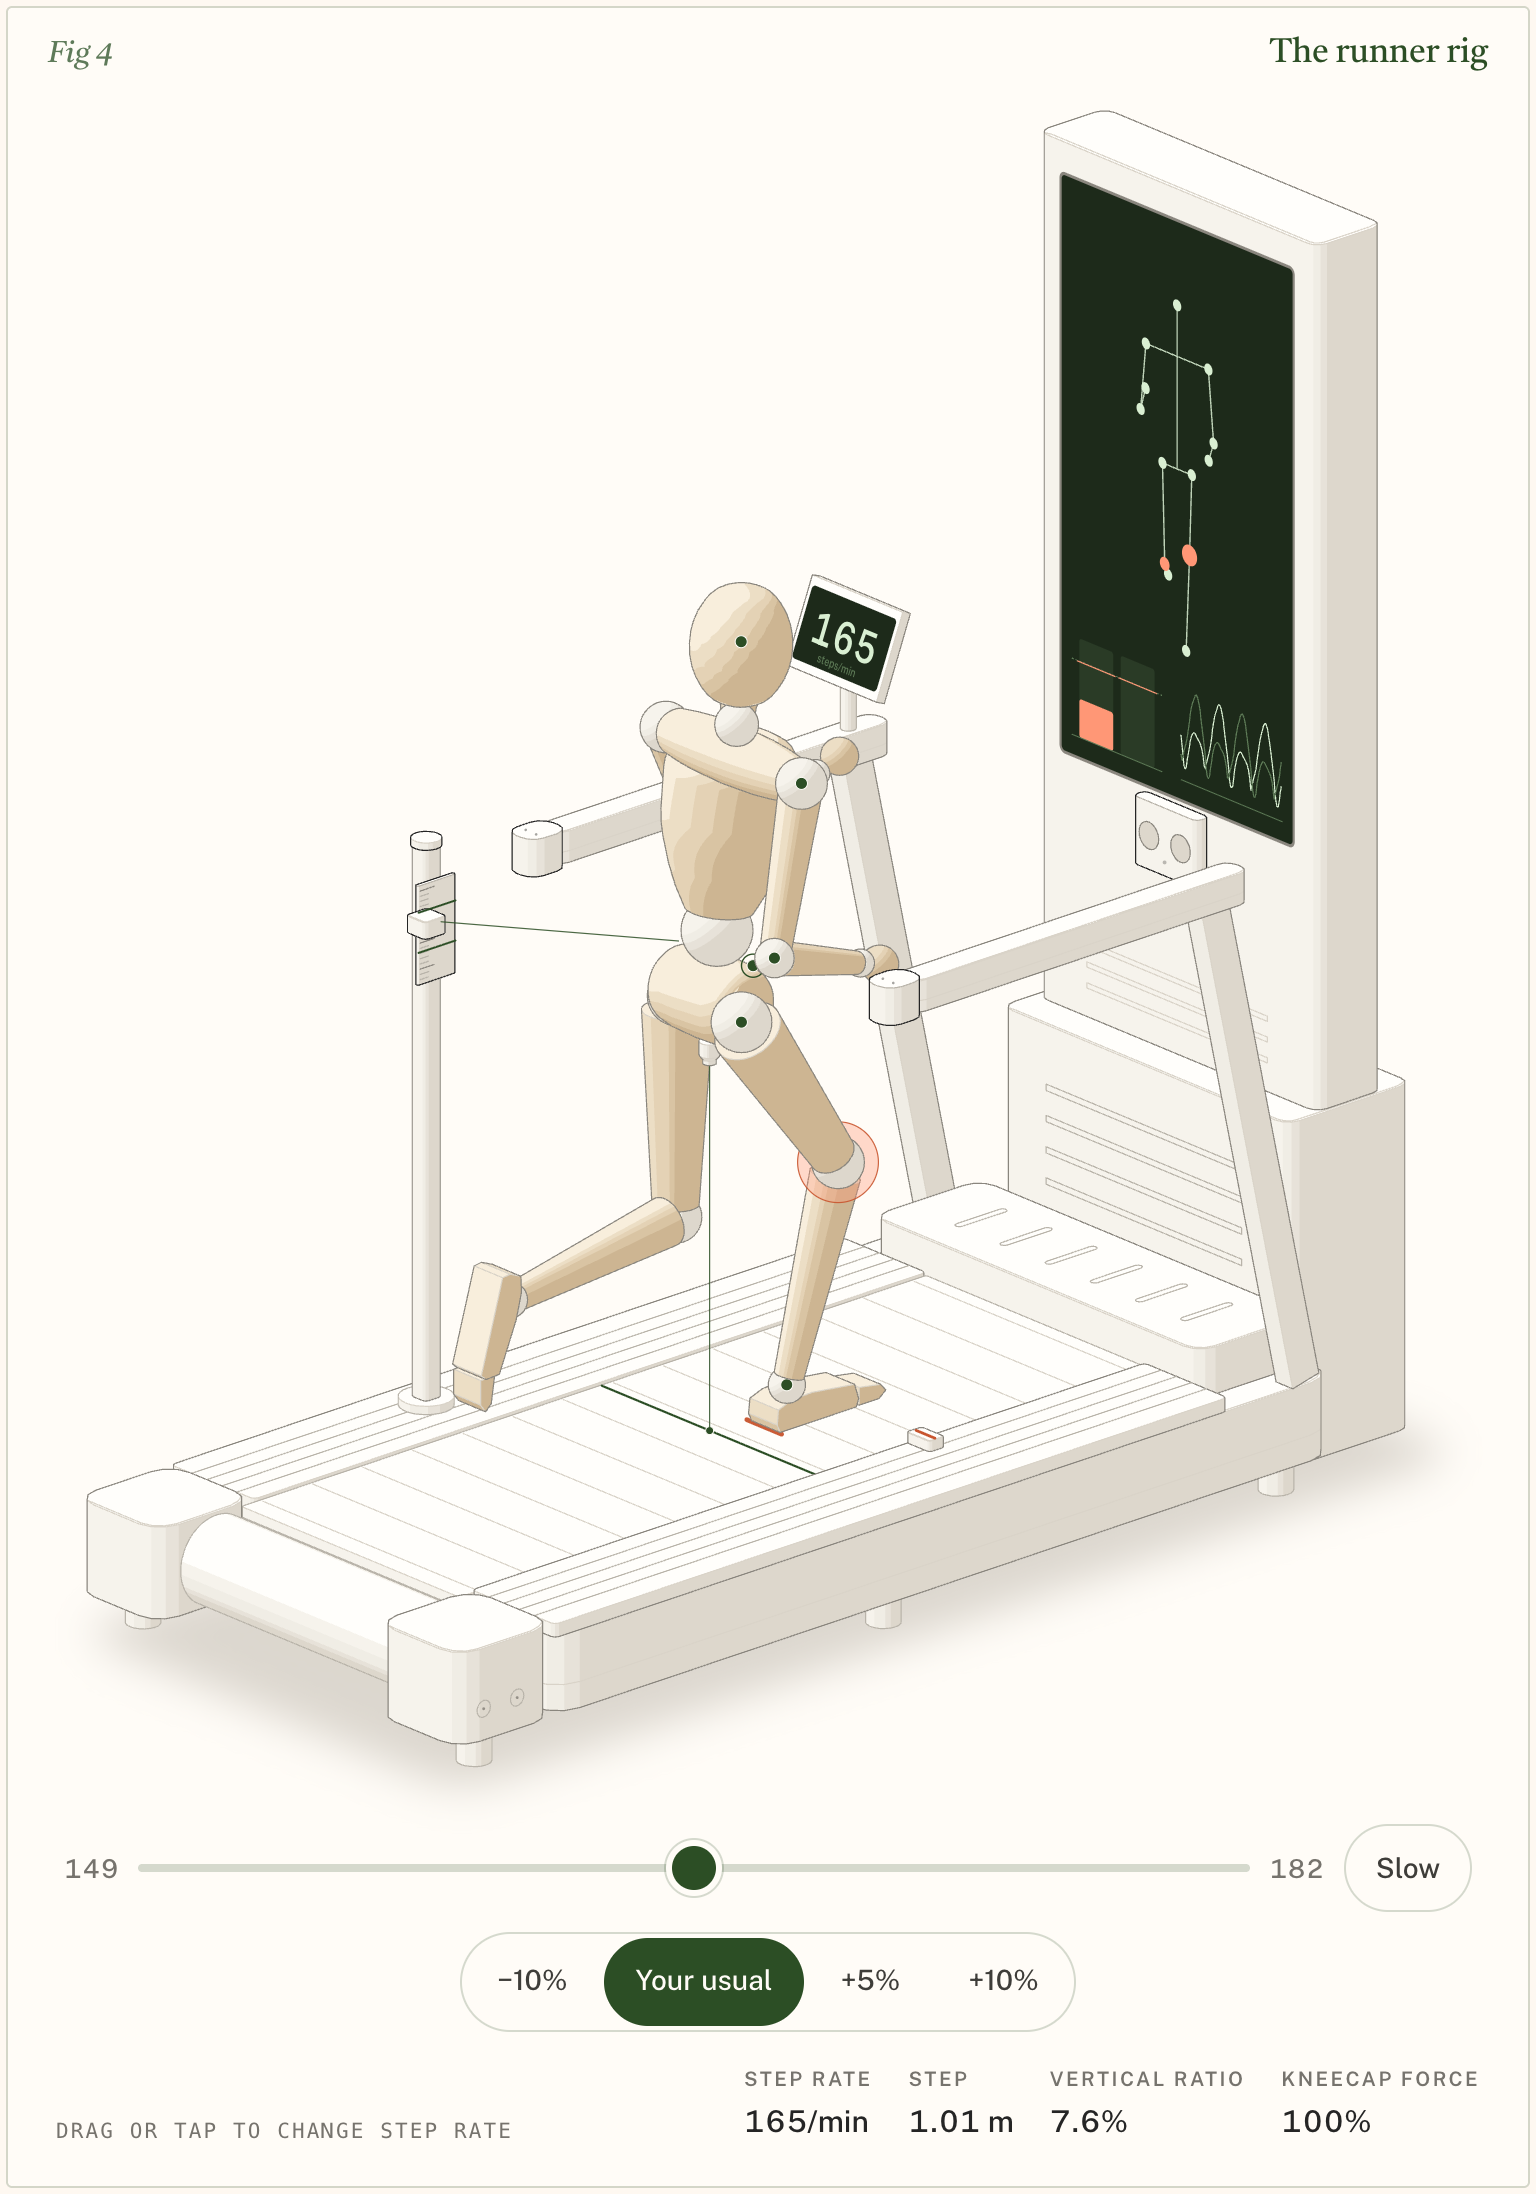
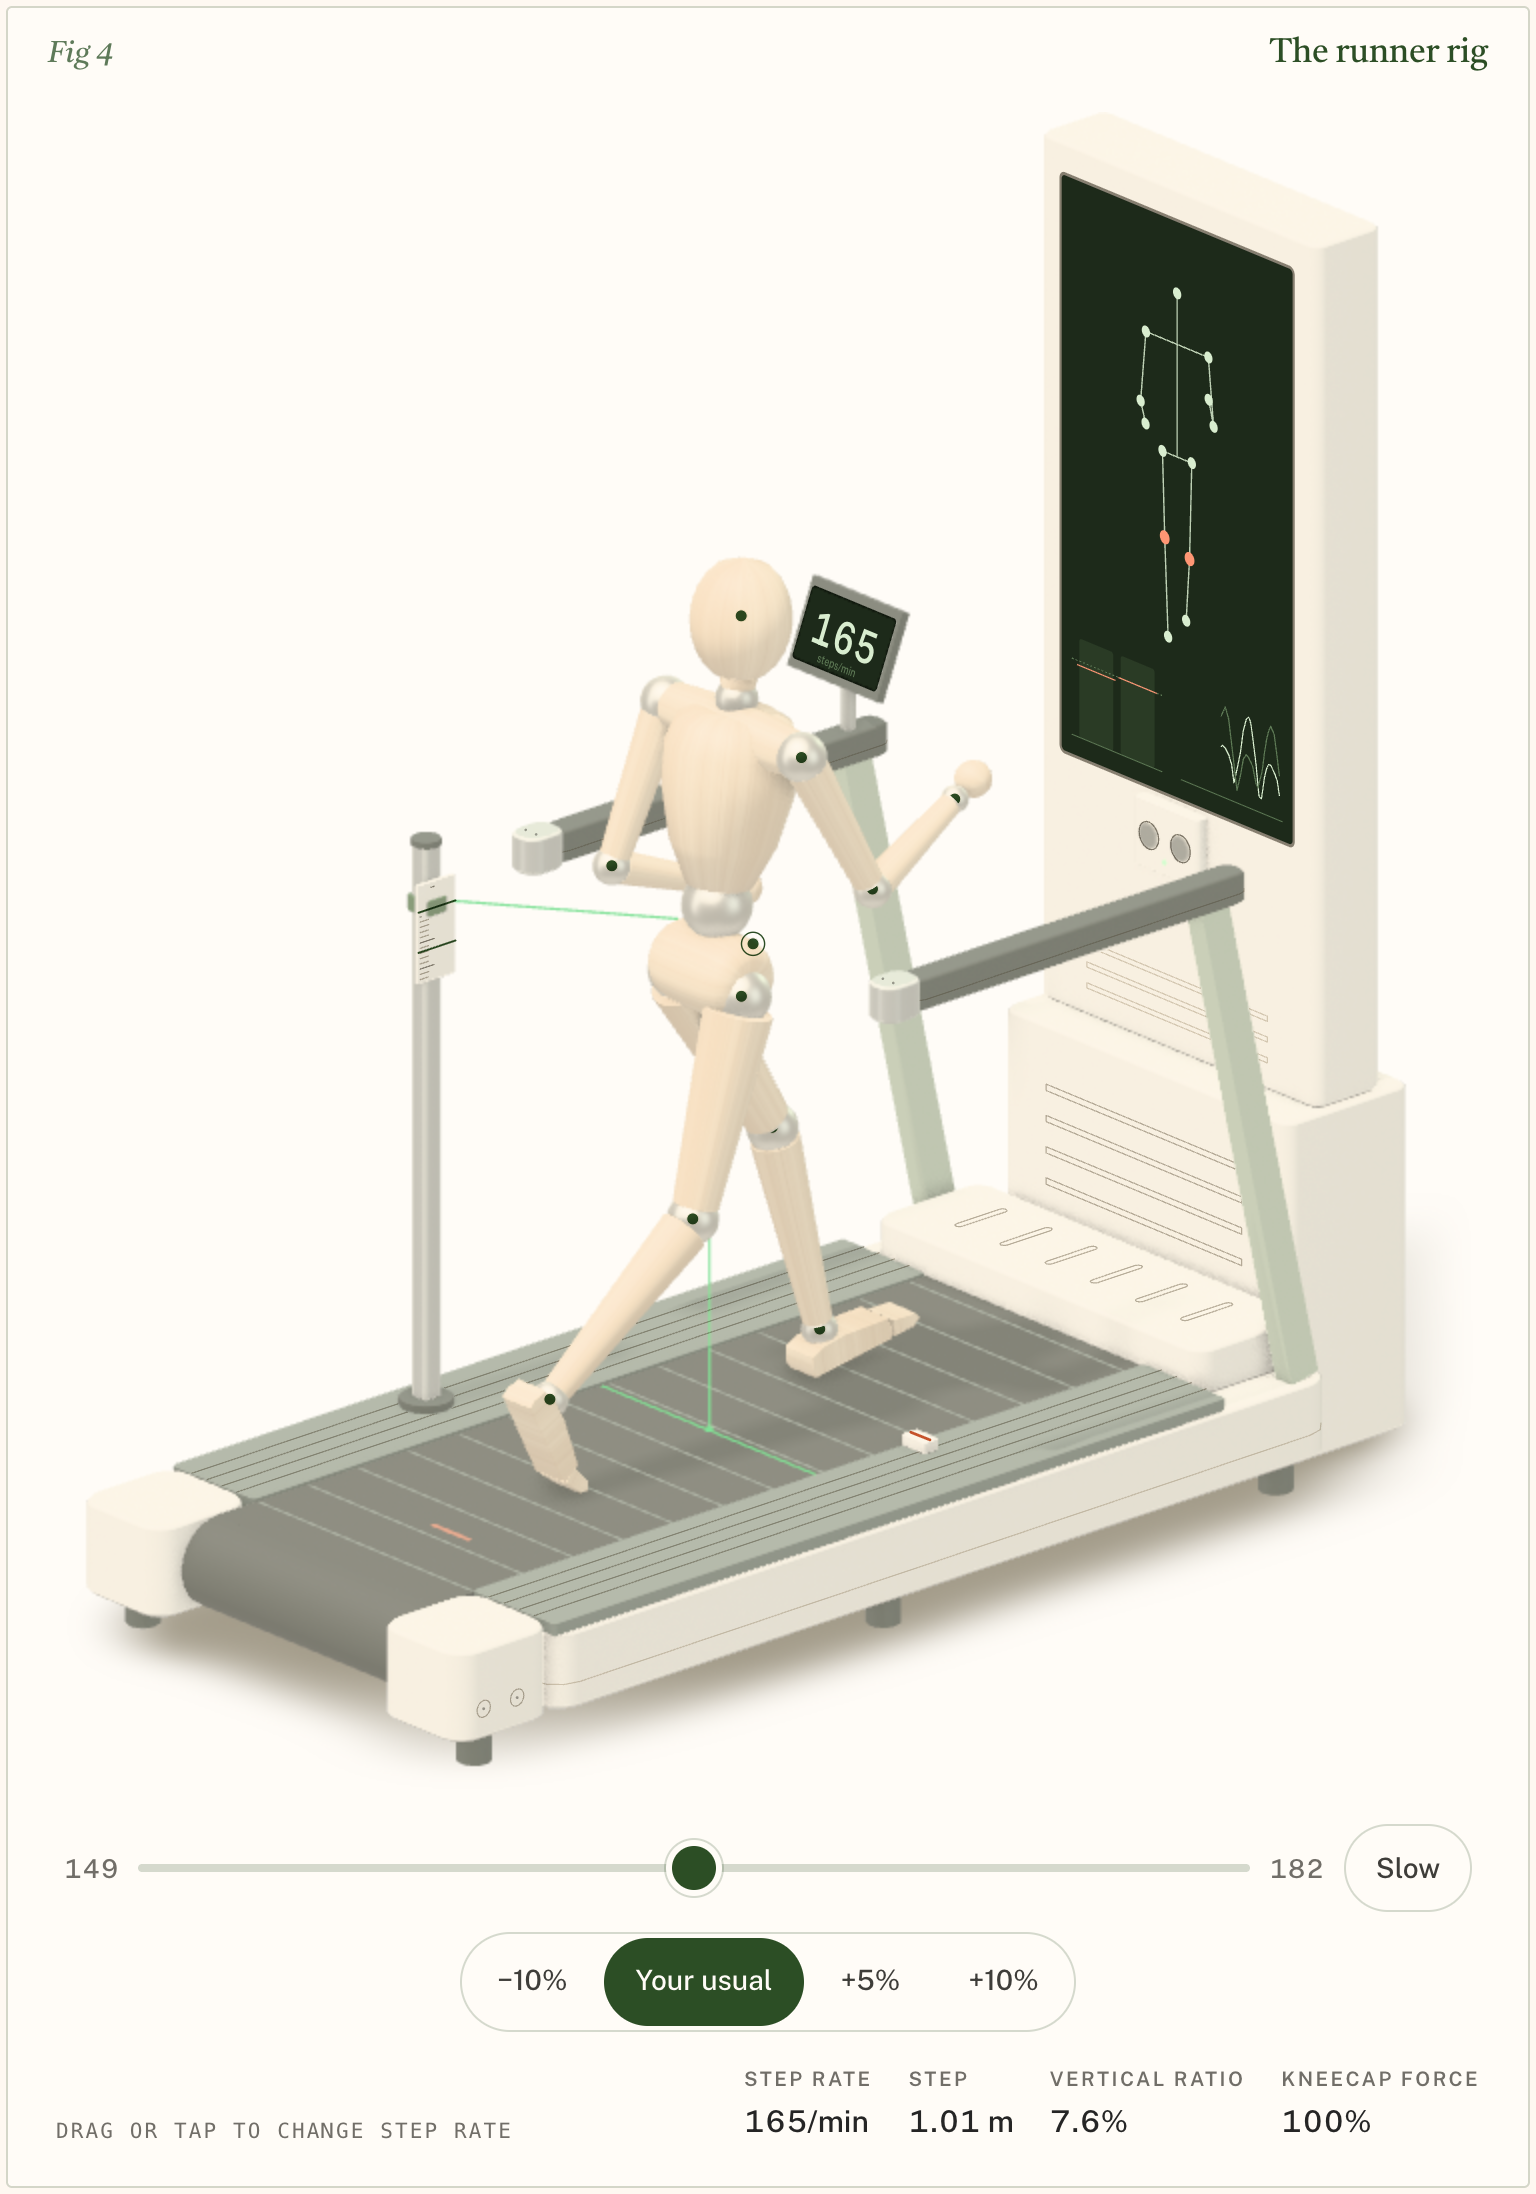
Fig 4 (the runner rig) on the shared 3-D layer
All 29 solids render with the brand colourway (white shells, sage uprights,
rubber belt, slate step rails, graphite handrails and console, brushed
metal). The runner is posed through mannequinView; the display and console
keep their drawn screens on paper panels. The plumb line, the gauge's
laser, the landing marks and the knee glow are lit parts in the render
(ink would vanish on a black belt), and their SVG copies hide while the
layer is on. The ruler rider and the gauge carriage move with gl.move.
The drawing with the layer off is pixel-identical to before.

diff --git a/figures/04-creator-600/live.js b/figures/04-creator-600/live.js
@@ -21,7 +21,9 @@ function mount(fig) {
     if (parent) parent.appendChild(n);
     return n;
   };
-  const view = mannequinView(nodes.runner, P, { between: ["plumb"] });
+  // the 3-D layer (shared/gl3): the same solids, rendered under this SVG. Until it arrives every call is a no-op.
+  const gl = gl3Attach(fig, { scene: DATA.gl3, P, W: DATA.W, H: DATA.H, file: DATA.gl3.file, v: DATA.gl3.v, redraw: () => frame && render() });
+  const view = mannequinView(nodes.runner, P, { between: ["plumb"], gl, key: "runner", materialOf: (p) => (p.name === "emitter" ? "graphite" : null) });
   const Z = DATA.beltZ;
   const base = [DATA.runX, 0, Z];
   const V = beltOf(); // cm/s
@@ -63,8 +65,8 @@ function mount(fig) {
       if (!st.glow) {
         // under the ball: first in the part's own group
         const host = g.parentNode;
-        st.ring = el("circle", { class: "mq-glow-ring" });
-        st.glow = el("circle", { class: "mq-glow" });
+        st.ring = el("circle", { class: "mq-glow-ring", "data-gl3-hide": "" });
+        st.glow = el("circle", { class: "mq-glow", "data-gl3-hide": "" });
         host.insertBefore(st.ring, host.firstChild);
         host.insertBefore(st.glow, host.firstChild);
       }
@@ -136,7 +138,7 @@ function mount(fig) {
     // carriage on the post, a laser from it to the runner's side, hold marks for the last stride's top and bottom
     const car = { x: g.x - 2.6, y: g.y - 2.6, w: 5.2, d: 5.2, r: 0.8 };
     let s = solidSvg(slabOf(car, z - 1.6, 3.2, P, 2, 0.3), { tone: "hi", className: "cr-carriage" });
-    s += lineSvg(pathOf([iso([g.x + 2.7, g.y + 1, z], P), iso([DATA.runX - 2, -6, z], P)]), { tone: "lit", className: "cr-beam", free: true });
+    s += `<g data-gl3-hide>${lineSvg(pathOf([iso([g.x + 2.7, g.y + 1, z], P), iso([DATA.runX - 2, -6, z], P)]), { tone: "lit", className: "cr-beam", free: true })}</g>`;
     const window = 120 / cadence;
     let top = -Infinity;
     let bot = Infinity;
@@ -215,6 +217,77 @@ function mount(fig) {
     }
   }
 
+  // ---------------------------------------------------------------- the 3-D layer's copy of what the page redraws
+  // The rider and the gauge's carriage are solids (moved as pieces); the belt's seams are strips slid along the belt.
+  // Laser light, landing marks and the knee's glow are ink in the drawing, and ink can't show on a black belt or a
+  // dark page, so the layer carries them as unlit parts in their own colours and the drawing's copies step aside
+  // ([data-gl3-hide]). Everything here is a no-op until the layer has arrived.
+  const LASER = 0x3fd45f;
+  const HEAT = 0xff8a5f;
+  const UP = { a: [0, 0, 1], u: [1, 0, 0], v: [0, 1, 0] };
+  const flat = (x, y, z) => ({ o: [x, y, z], ...UP });
+  let glLit = false;
+  let glBeam = 0;
+  function glPush(J, parts, pose, loads) {
+    if (!gl.on) {
+      glLit = false;
+      return;
+    }
+    if (!glLit) {
+      glLit = true;
+      glBeam = 0;
+      for (const n of ["fx.laser", "fx.spot", "fx.beam", "fx.gbeam"]) gl.set(n, { color: LASER });
+      for (let i = 0; i < DATA.marks; i++) gl.set(`fx.mark${i}`, { color: HEAT, opacity: 0.99, visible: false });
+      for (const k of ["R", "L"]) gl.set(`fx.knee${k}`, { color: HEAT, opacity: 0.5, visible: false });
+      gl.set("camera.pilot", { emissive: 0x7fe08a, intensity: 2.4 });
+      const beam = view.nodes.get("beam");
+      if (beam) beam.g.setAttribute("data-gl3-hide", "");
+    }
+    // thin parts keep at least a device pixel and a bit of width, so a small or low-density stage doesn't break them into dashes
+    const st = gl.stats();
+    const perCm = P.scale * Math.sqrt(1.6) * (st.cssW / DATA.W) * st.dpr; // device pixels per cm
+    const fat = (cm) => Math.max(1, 1.15 / (cm * perCm));
+    const fSlat = fat(DATA.thin.slat);
+    const fLaser = fat(DATA.thin.laser);
+    const fBeam = fat(DATA.thin.beam);
+    if (fBeam !== glBeam) {
+      glBeam = fBeam;
+      const b = DATA.gauge.beam;
+      gl.set("fx.gbeam", { F: { o: b.o, a: b.a, u: b.u.map((v) => v * fBeam), v: b.v.map((v) => v * fBeam) } });
+    }
+    gl.move("rider", [rider, 0, 0]);
+    gl.move("carriage", [0, 0, Z + pose.com]);
+    const gap = 12;
+    const off = ((beltAt % gap) + gap) % gap;
+    for (let i = 0; i < DATA.slats; i++) {
+      const x = DATA.belt.x1 - off - i * gap;
+      gl.set(`belt.slat${i}`, x > DATA.belt.x + 0.5 ? { visible: true, F: { o: [x, 0, 0], a: UP.a, u: [fSlat, 0, 0], v: UP.v } } : { visible: false });
+    }
+    const px = J.pelvis[0];
+    gl.set("fx.laser", { F: { o: [px, 0, 0], a: UP.a, u: [fLaser, 0, 0], v: UP.v } });
+    gl.set("fx.spot", { F: flat(px, 0, Z + 0.05) });
+    gl.set("fx.beam", { F: { o: [px, 0, Z], a: [0, 0, J.pelvis[2] - 10.4 - Z], u: [fBeam, 0, 0], v: [0, fBeam, 0] } });
+    for (let i = 0; i < DATA.marks; i++) {
+      const mk = marks[i];
+      const x = mk ? mk.x0 - (beltAt - mk.at) : 0;
+      const a = mk ? Math.max(0, 1 - (clock - mk.t) / 1.2) : 0;
+      gl.set(`fx.mark${i}`, mk && x >= DATA.belt.x + 2 && a > 0.01 ? { visible: true, opacity: Math.min(0.99, a), F: flat(x, mk.y, 0) } : { visible: false });
+    }
+    // the knee's glow: a disc facing the camera, just behind the knee ball, sized and faded as the drawing's
+    const g = DATA.glow;
+    for (const k of ["R", "L"]) {
+      const ball = parts.find((p) => p.name === `knee${k}`);
+      const load = loads[k];
+      if (!ball || load <= 0.02) {
+        gl.set(`fx.knee${k}`, { visible: false });
+        continue;
+      }
+      const r = (ball.r + 1.6 + 5.5 * load) / Math.sqrt(1.6);
+      const back = ball.r + 0.5;
+      gl.set(`fx.knee${k}`, { visible: true, opacity: 0.8 * Math.min(1, load), F: { o: [ball.c[0] - g.a[0] * back, ball.c[1] - g.a[1] * back, ball.c[2] - g.a[2] * back], a: g.a, u: g.u.map((v) => v * r), v: g.v.map((v) => v * r) } });
+    }
+  }
+
   // ---------------------------------------------------------------- one frame
   function render() {
     const pose = poseAt(phi, cadence, B);
@@ -231,6 +304,8 @@ function mount(fig) {
     gaugeSvg(pose.com);
     screenDraw(J, loads);
     if (nodes.cadence) nodes.cadence.textContent = String(Math.round(cadence));
+    glPush(J, parts, pose, loads);
+    gl.render();
     return pose;
   }
 

diff --git a/figures/04-creator-600/NOTES.md b/figures/04-creator-600/NOTES.md
@@ -1,6 +1,6 @@
 # Fig 4 · The runner rig
 
-**Size:** Hero. 29 recorded solids for the treadmill and its instruments, plus the page-drawn mannequin (about 40 parts a frame: 18 balls, 8 dowels, the trunk, 4 foot blocks, plumb laser), belt slats, landing marks, gauge carriage and the display's panels. About 140 parts in all. SVG only, no 3D, no WebGL.
+**Size:** Hero. 29 recorded solids for the treadmill and its instruments, plus the page-drawn mannequin (about 40 parts a frame: 18 balls, 8 dowels, the trunk, 4 foot blocks, plumb laser), belt slats, landing marks, gauge carriage and the display's panels. About 140 parts in all. The SVG is the figure; since 2026-11-10 the shared real-time 3-D layer (`shared/gl3`) renders the same solids under it where it can run (see "The 3-D layer" below).
 
 **Mapping in one sentence:** an artist's mannequin with ball joints runs on the Creator 600 at a fixed 10 km/h. Each joint carries a tracking dot, and the upright display draws the skeleton the camera under it sees. The cadence slider shortens each step, so the heel lands closer to the plumb laser line under the centre of mass, the bounce gauge's travel shrinks, and the knee's load glow and the display's load bars drop by Lenhart's patellofemoral-force percentages.
 
@@ -61,6 +61,28 @@ All in `reference/truth-pack.md` §4, under "How Fig 4 uses these numbers".
 - **Offscreen:** rendering stops when the figure is out of view (IntersectionObserver).
 - **Reduced motion:** one still frame, with the right heel just landed ahead of the laser line, its belt mark and the rider at the landing, the last landing's load held on the display, and 1.6 s of knee trace. Each preset redraws the still.
 
+## The 3-D layer (2026-11-10)
+
+Adopted as `shared/gl3/README.md` describes, with Fig 5 as the template. `?gl=off` (or `gl="off"` on the embed) shows the drawing exactly as before.
+
+- **Colourway** (the brand's, not the maker's):
+  - warm white shells: deck housing, rear caps, hood, column, display, camera module, gauge scale plate, ruler rider;
+  - sage uprights. Forest was tried first and looks stronger on Cream, but it sinks into the Forest night page; sage reads on both;
+  - rubber belt and rear roller. In the render the belt's body runs on to the roller's crown, so the two read as one loop;
+  - slate step rails: dark enough for a deck, pale enough that the drawn treads still read as ink;
+  - graphite handrails, feet, console, plumb emitter, gauge base and cap; brushed aluminium rail caps and gauge post; a steel stalk; a forest carriage on the gauge;
+  - the mannequin is maple with satin nickel joints (the layer's defaults).
+- **Screens:** the display and the console each have a `paper` panel under the drawn screen (a hair inside the screen's outline, so the panel's bright edge sits under the dark fill).
+- **Camera:** the two apertures are nickel bezels with smoked glass and the pilot light is a small lit ball. The drawn lens fills and pilot dot step aside (`data-gl3-hide`); the drawn lens rings stay.
+- **Solids the page redraws every frame** have rendered bodies recorded at build time and moved by the page: the ruler's rider (`gl.move("rider")`) and the gauge's carriage with its laser (`gl.move("carriage")`). The carriage's body ends 0.5 cm proud of the scale plate, because the drawing paints it over the plate.
+- **Light.** Ink multiplies onto the render, so it can't show on a black belt or on the Forest night page. The things the drawing makes with light are therefore unlit parts in the render, and the drawing's copies step aside while the layer is on (`data-gl3-hide`): the plumb line across the belt, its spot and the beam down to it, the gauge's laser, the landing marks (they ride back with the belt and fade, as drawn) and the knee's load glow (a disc facing the camera just behind the knee ball, sized and faded by the same `kneeLoadAt`). Laser green is `#3fd45f` and the heat colour is `#ff8a5f` in both themes; the drawing's own inks are unchanged.
+- **Belt seams** are 15 thin slate strips slid along the belt by the same formula as the drawn slats.
+- **Thin parts** (seams, laser line, beams) are fattened by the page to at least 1.15 device pixels, so a small or low-density stage doesn't break them into dashes.
+- **Left as drawn** (ink on pale or rendered surfaces, no body needed): tracking dots, the centre-of-mass marker, the rider's mark, the gauge's ticks and hold marks, deck treads, vents, grille, bolts, everything on the two screens.
+- **Look:** `aoRadius: 5, ao: 0.8`. The default radius (4.5 % of this long machine's span, about 11 cm) turned the creases between shells grainy at the phone quality level.
+- **Nothing was needed from shared code.** Worked around inside the figure: `F.GL` entries are edited after the helpers record them (rounder bevels on the big shells, the belt's longer body), and the lit parts use the `paper` preset with their own colour and `shadow: false`.
+- **Known gap, older than the layer:** the landing ruler's strip and its 2 cm ticks are pushed into `back`, so the step rail's fill is painted over them and they have never been visible; only the rider shows. The layer leaves that as it is (no strip is rendered either). Fixing it means drawing the strip after `deck.railL`, which changes the drawing, so it is left for Peter to rule on.
+
 ## Verification (2026-10-11)
 
 - `node build.mjs --audit` and `--light --audit` → `audit passed`.
@@ -68,6 +90,7 @@ All in `reference/truth-pack.md` §4, under "How Fig 4 uses these numbers".
 - No console errors. No sideways scroll at 390, 360 or 320, and at 320 the four readout columns fit.
 - Frame time is about 4 ms; headless Chrome holds 60 fps. The first version took 34 ms a frame with smooth-shaded limbs. The limbs are now cone frusta (smooth round their axis, cheap), and the trunk is drawn once and translated.
 - Captures: `shots/phone-{390,360,320}-{dark,light}.png`, `shots/desktop-{dark,light}.png`, `shots/reduced-390-*.png`, and the close-up sheets `shots/zoom-sheet-*.png`.
+- 2026-11-10, with the 3-D layer: `node scripts/verify.mjs 04-creator-600` → `verify: passed` (the stage ends at `data-gl3="on"`, console clean; the line check runs with `?gl=off`). The layer's camera matches the kit's projection to 0.005 px, and it holds the same frame rate as Fig 5 on the same machine. The `shots/` above now show the layer on (the zoom sheets are still the drawing alone).
 
 ## Embed
 
